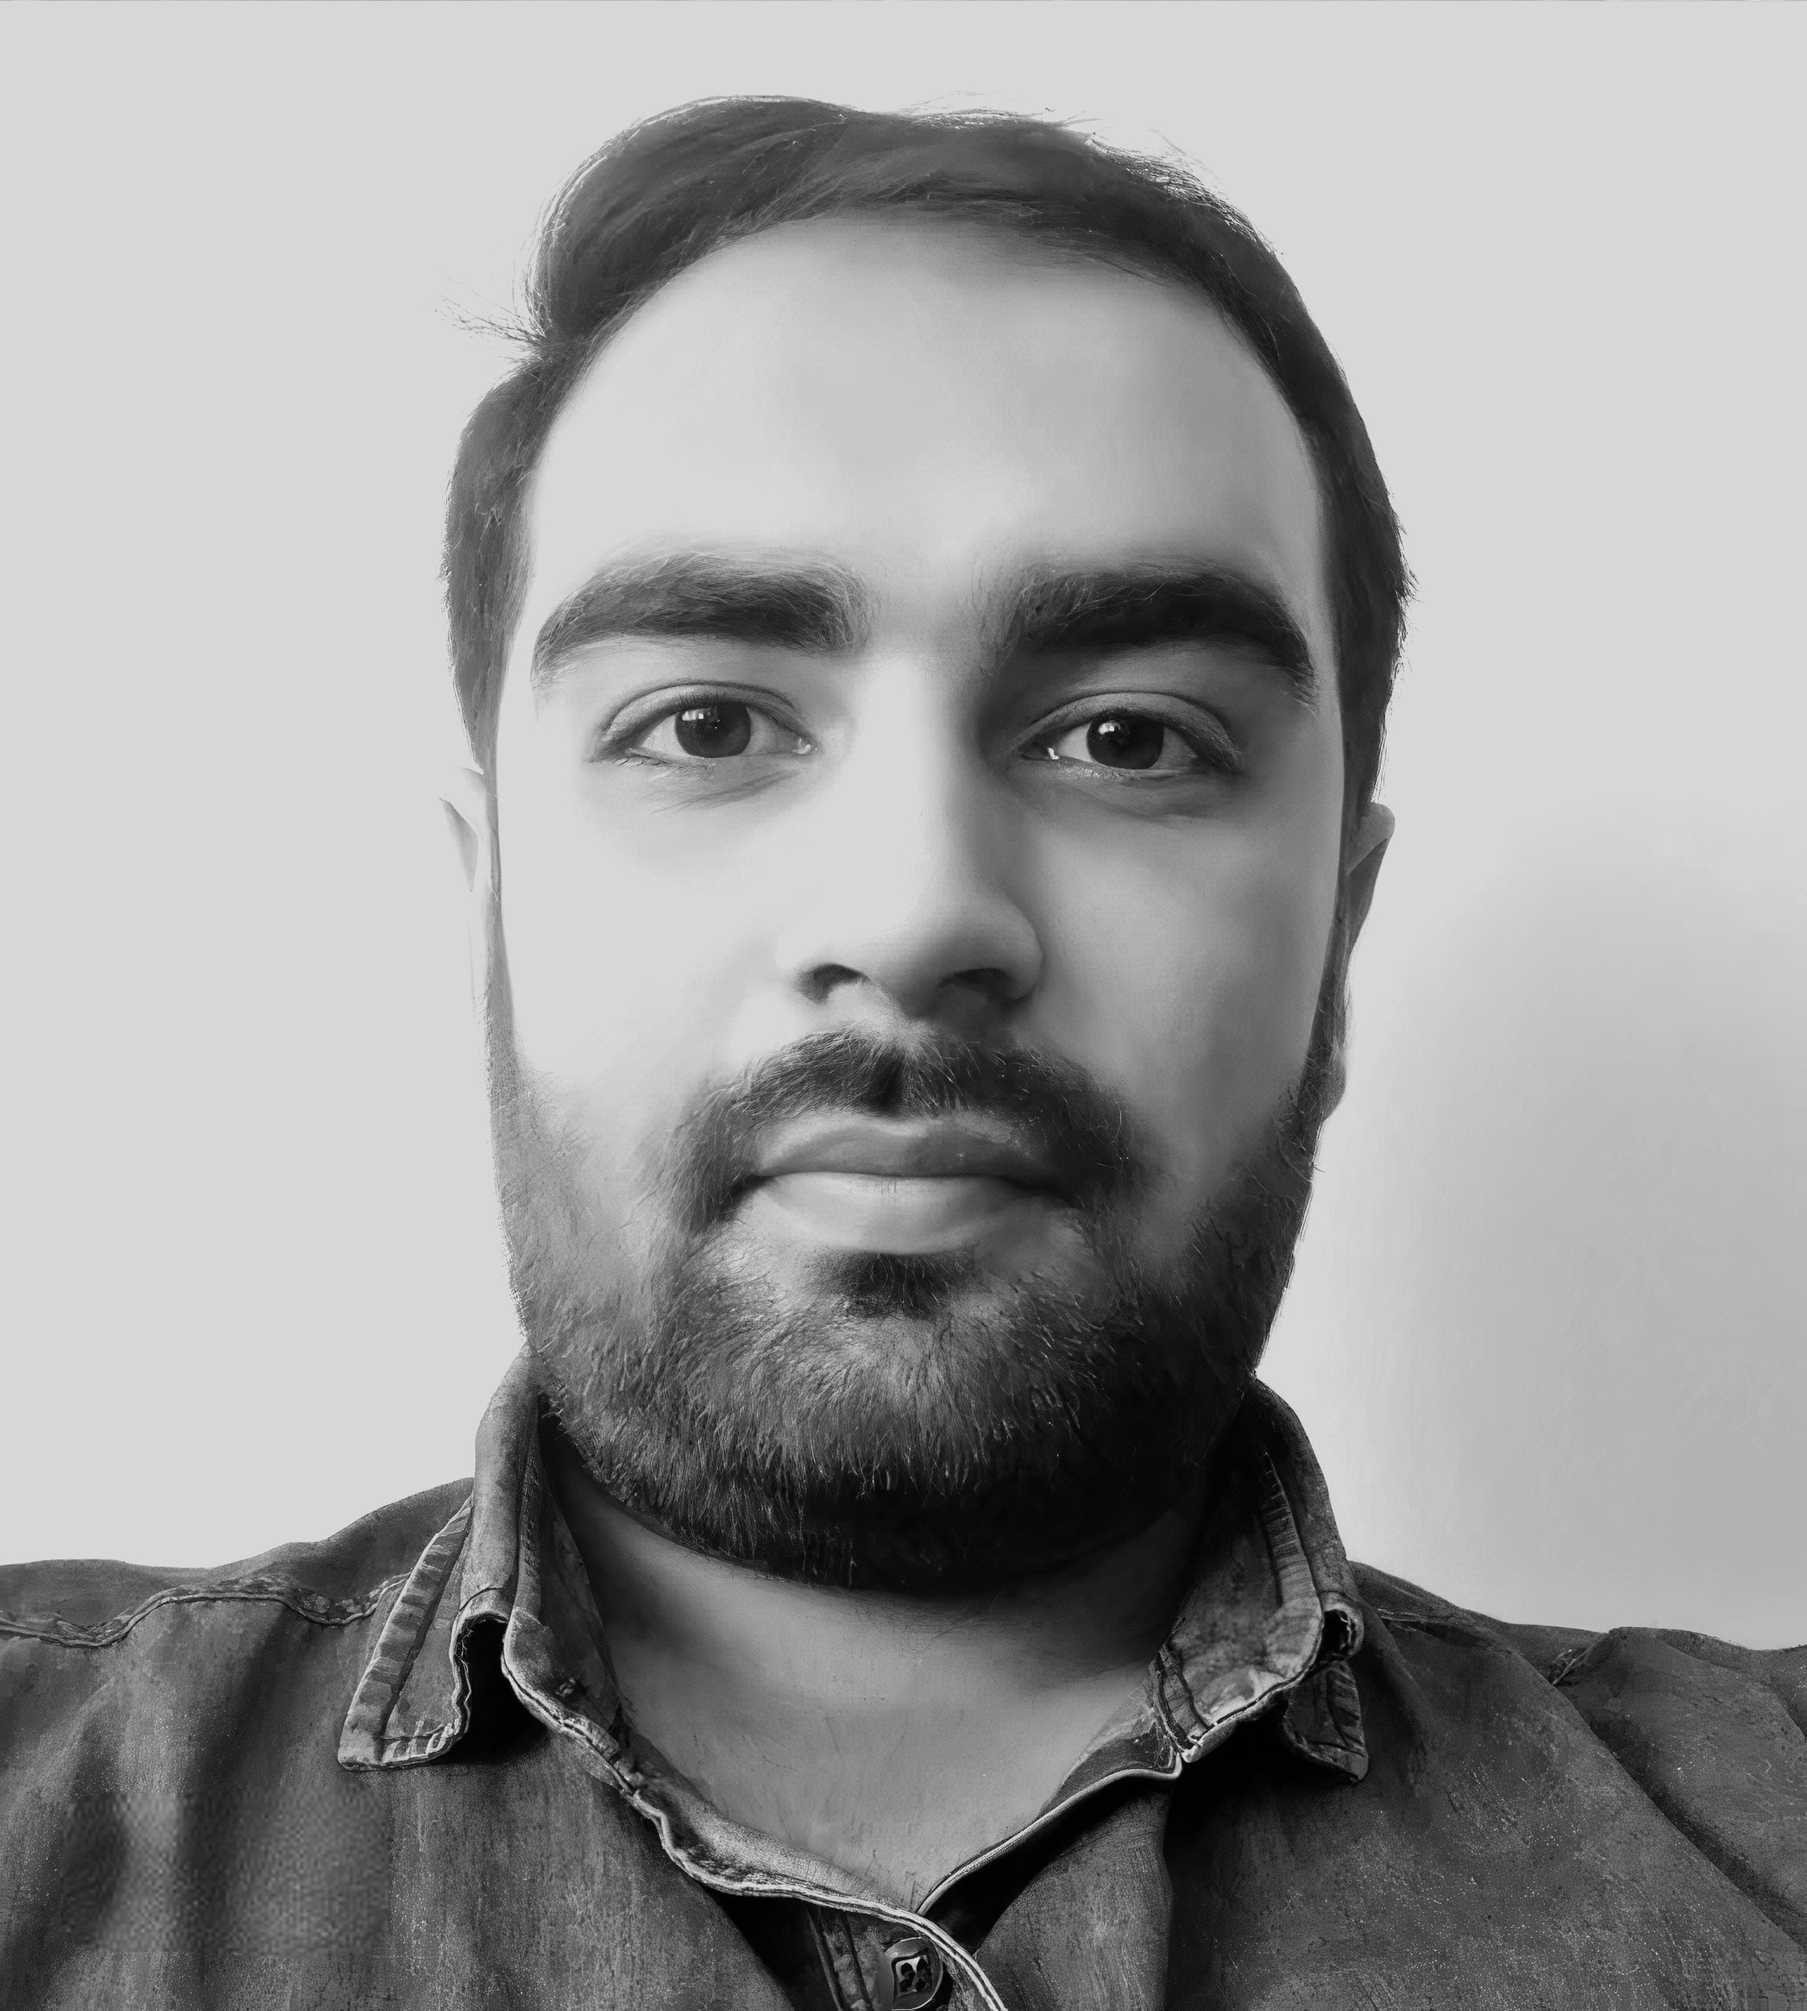
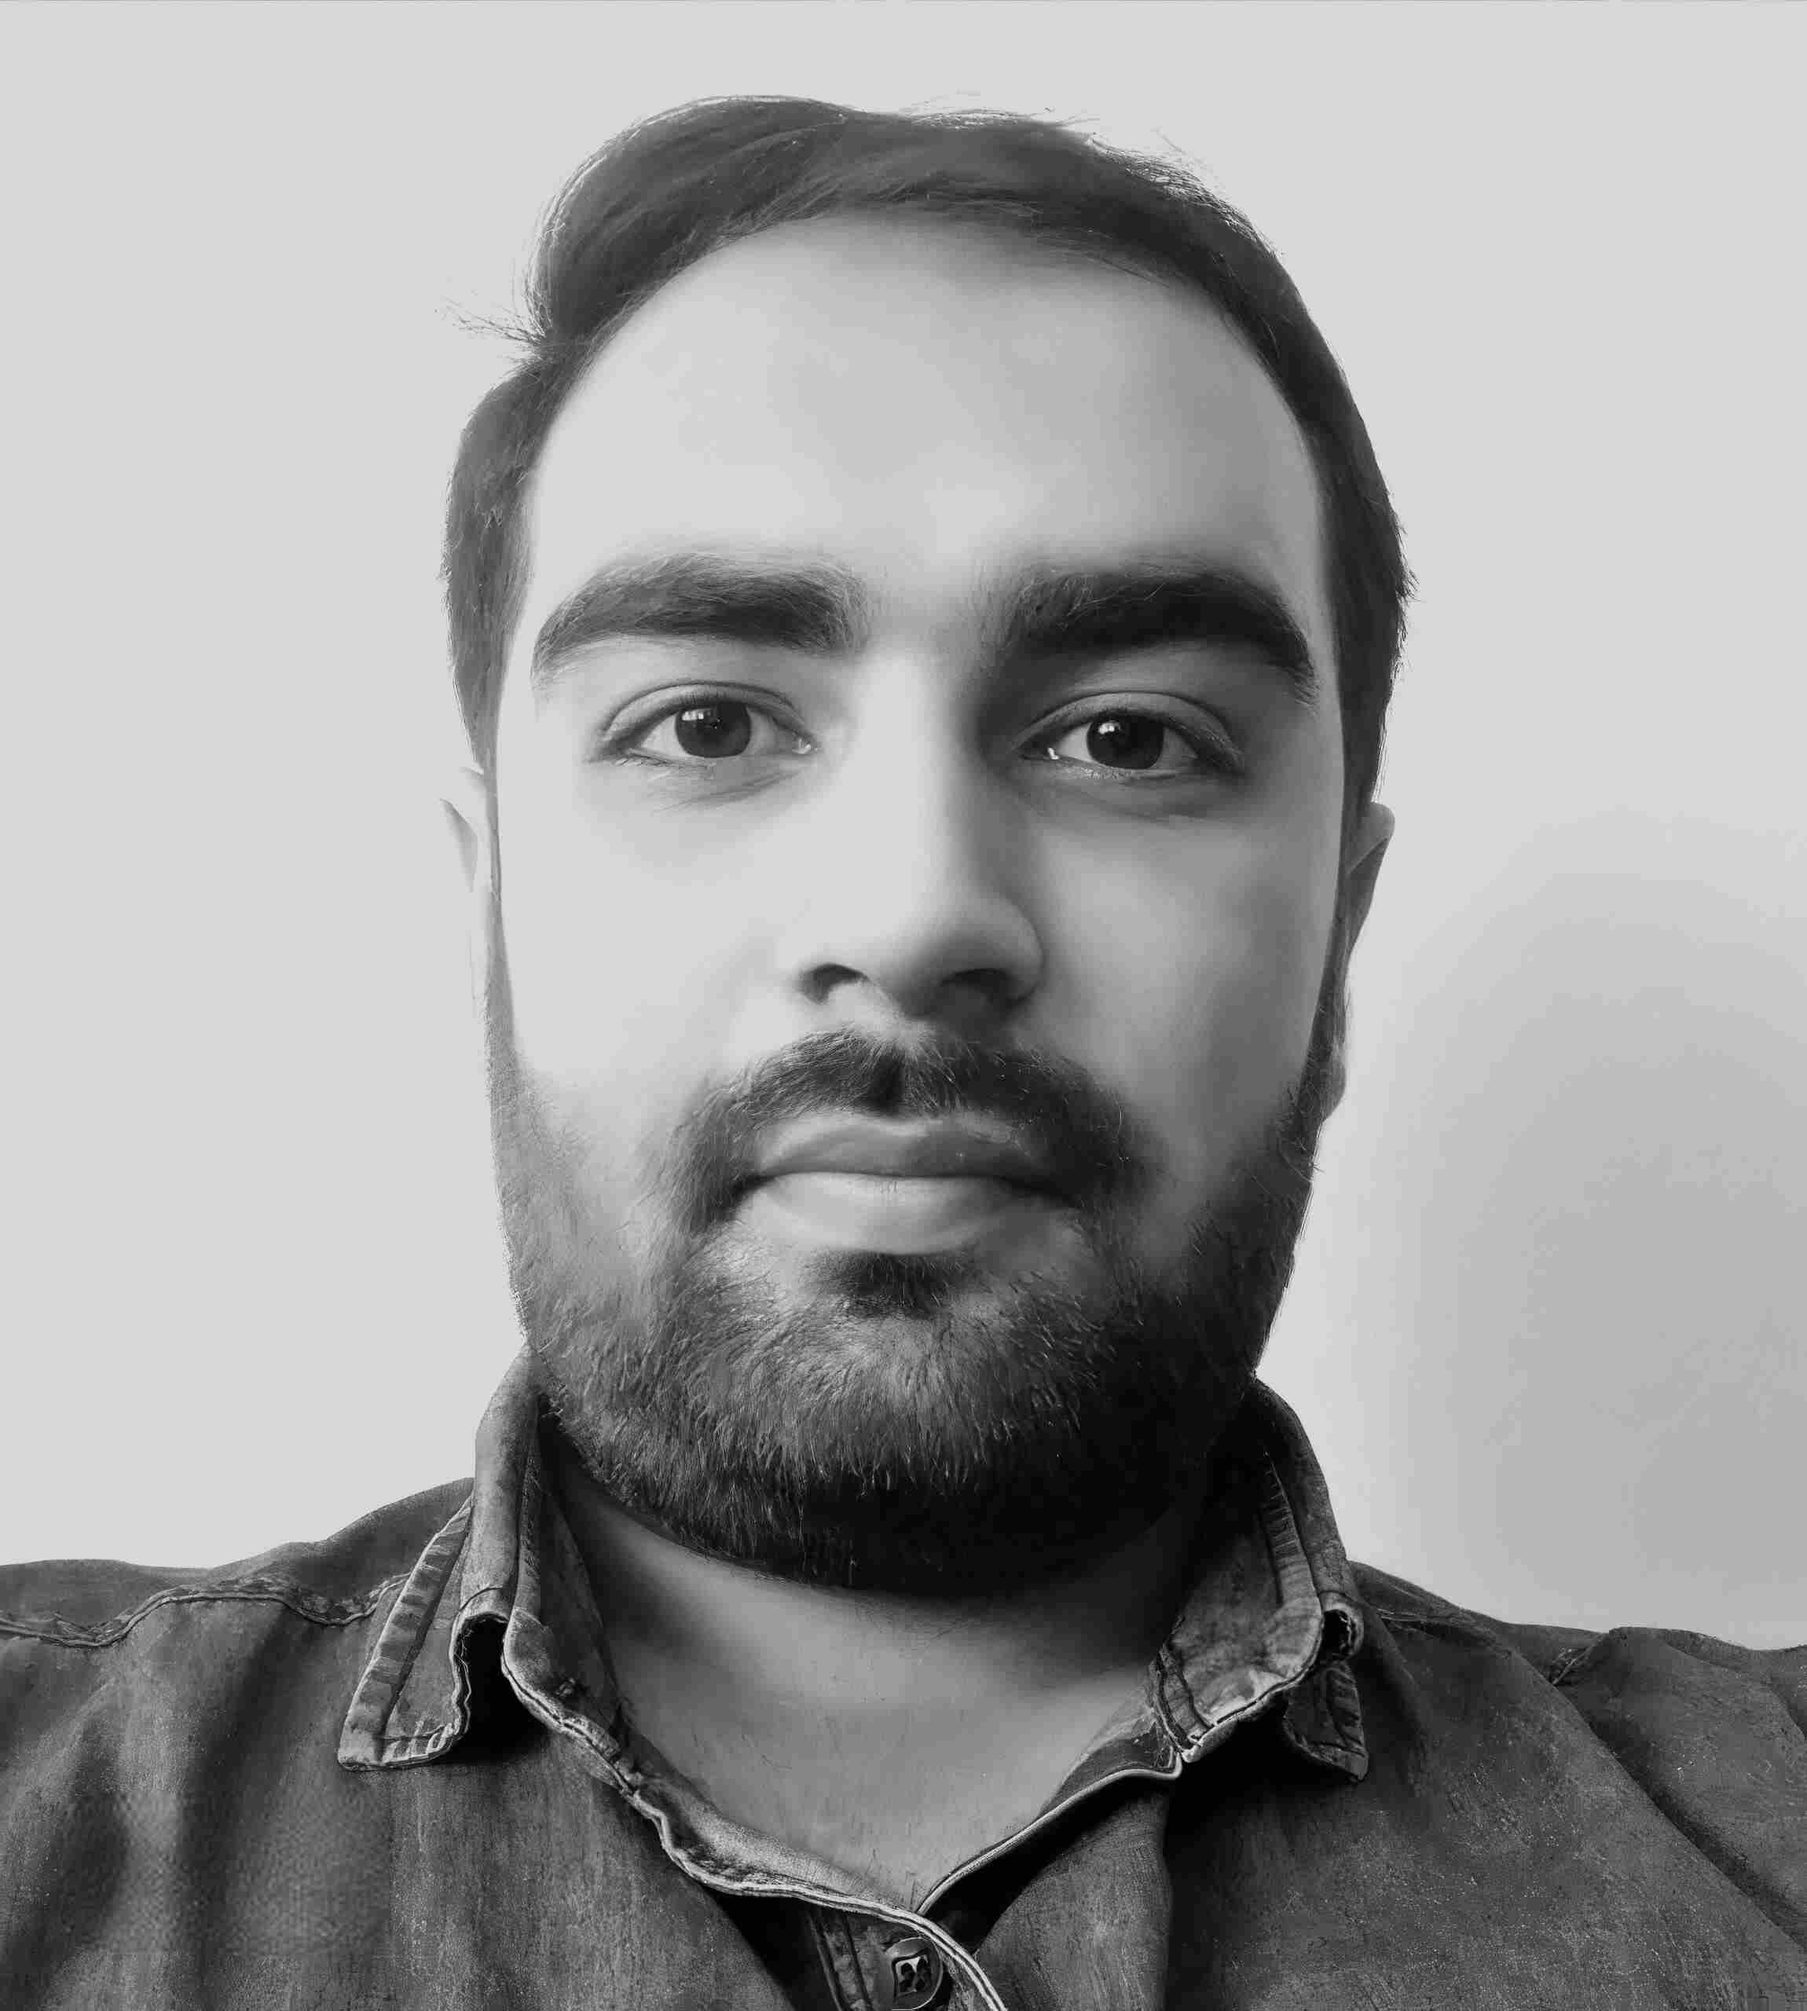
fix: Reduces profile image size

diff --git a/src/assets/components/Loading/Loading.stylex.ts b/src/assets/components/Loading/Loading.stylex.ts
@@ -7,6 +7,12 @@ const loadingAnimation = stylex.keyframes({
   "100%": { transform: "translateY(0)" },
 });
 
+const breakpoints = {
+  sm: "@media (max-width: 640px)",
+  md: "@media (max-width: 768px)",
+  lg: "@media (max-width: 1024px)",
+};
+
 export const styles = stylex.create({
   loadingContainer: {
     display: "flex",
@@ -22,8 +28,8 @@ export const styles = stylex.create({
     overflow: "hidden",
   },
   loadingDot: {
-    width: "3rem",
-    height: "3rem",
+    width: { default: "3rem", [breakpoints.md]: "2rem" },
+    height: { default: "3rem", [breakpoints.md]: "2rem" },
     backgroundColor: variables["dynamicColor"],
     borderRadius: "50%",
   },
